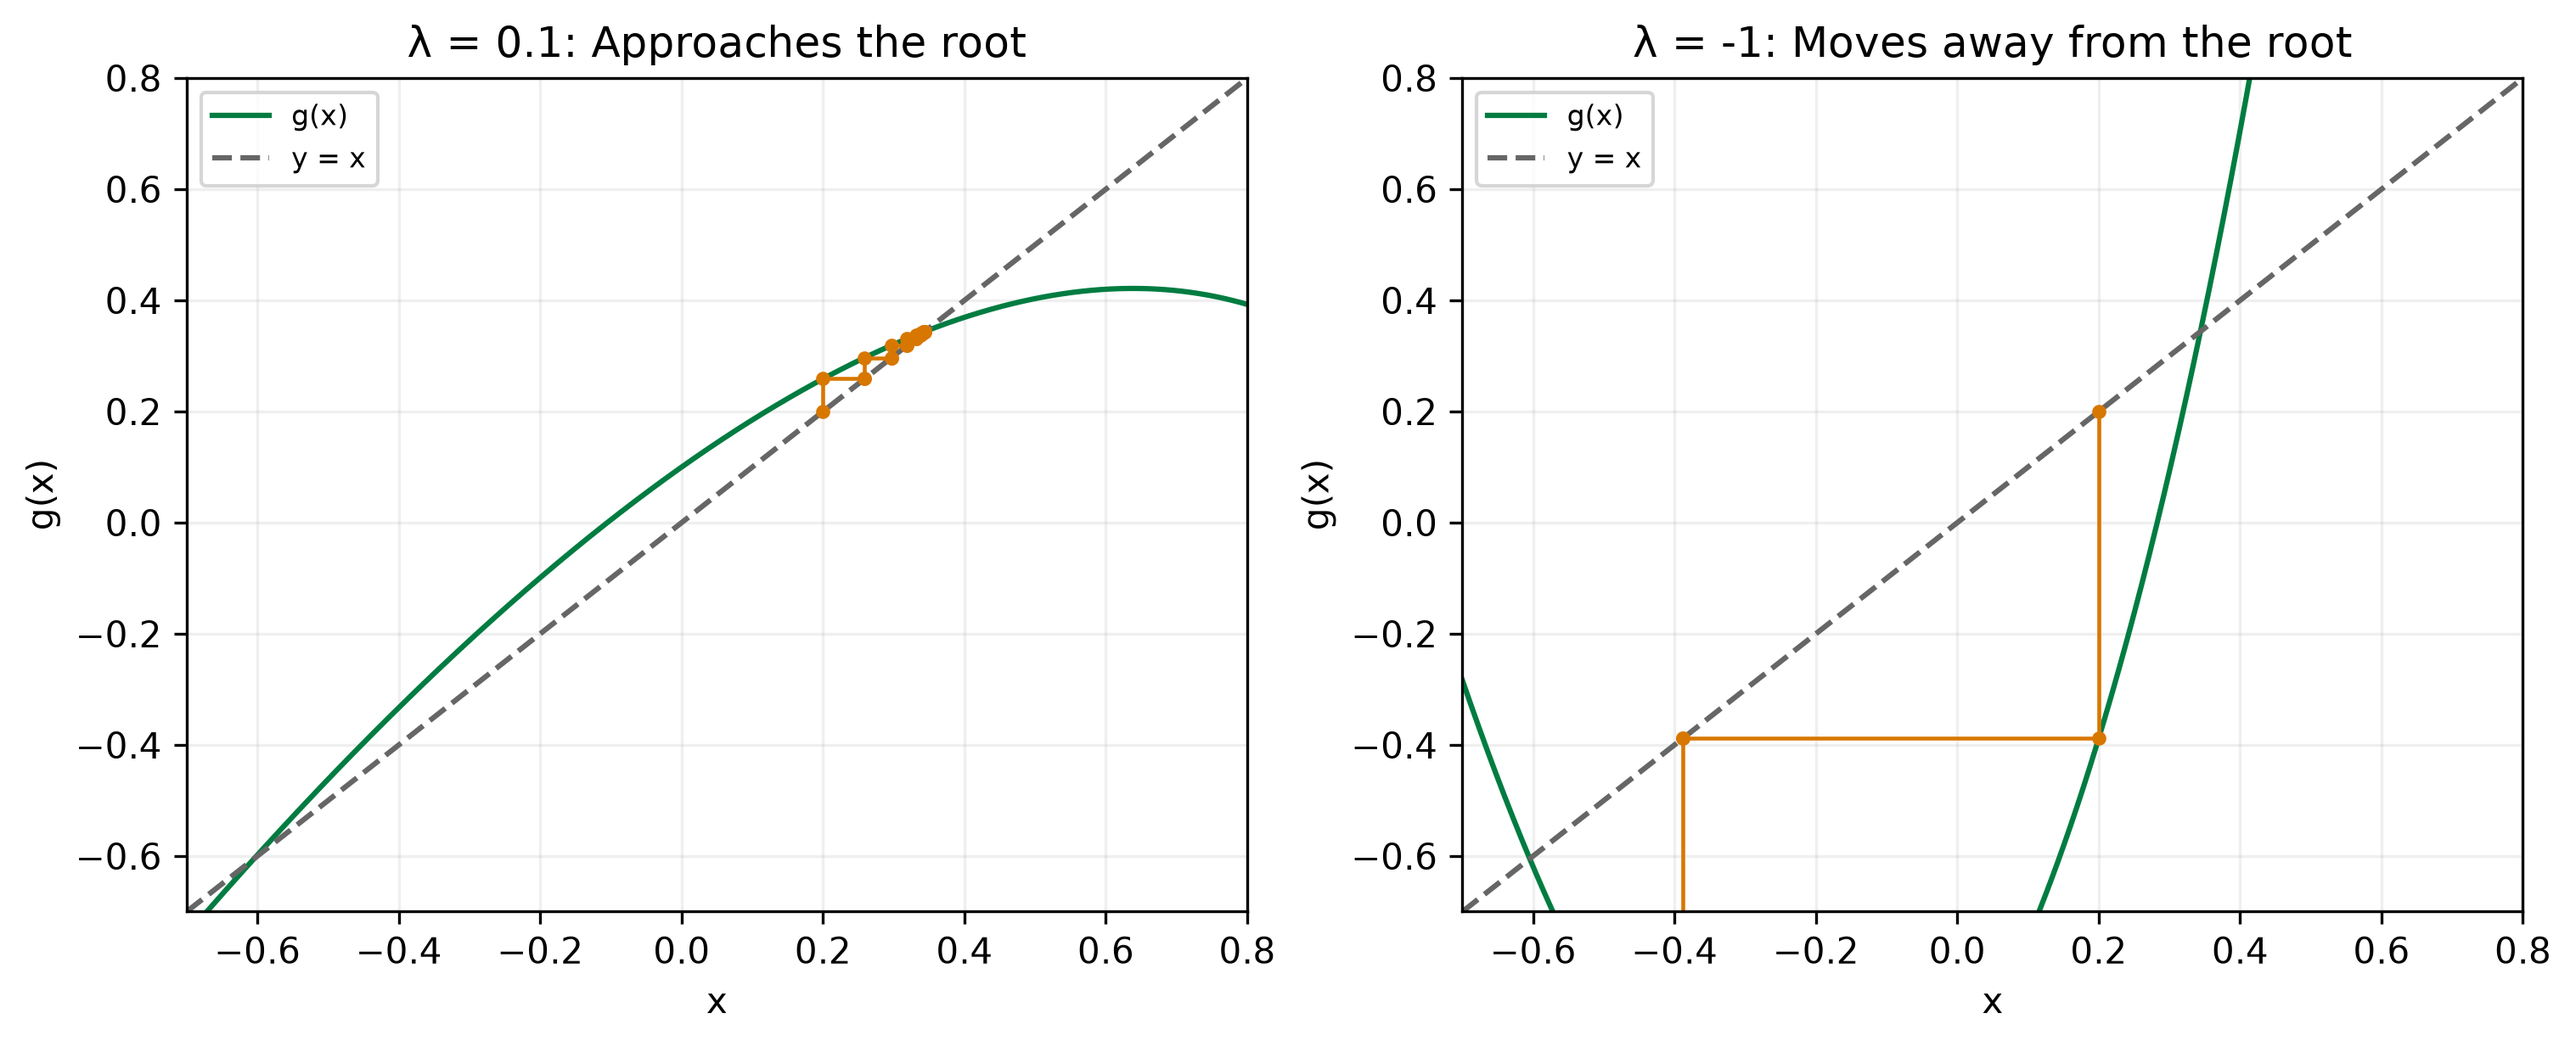
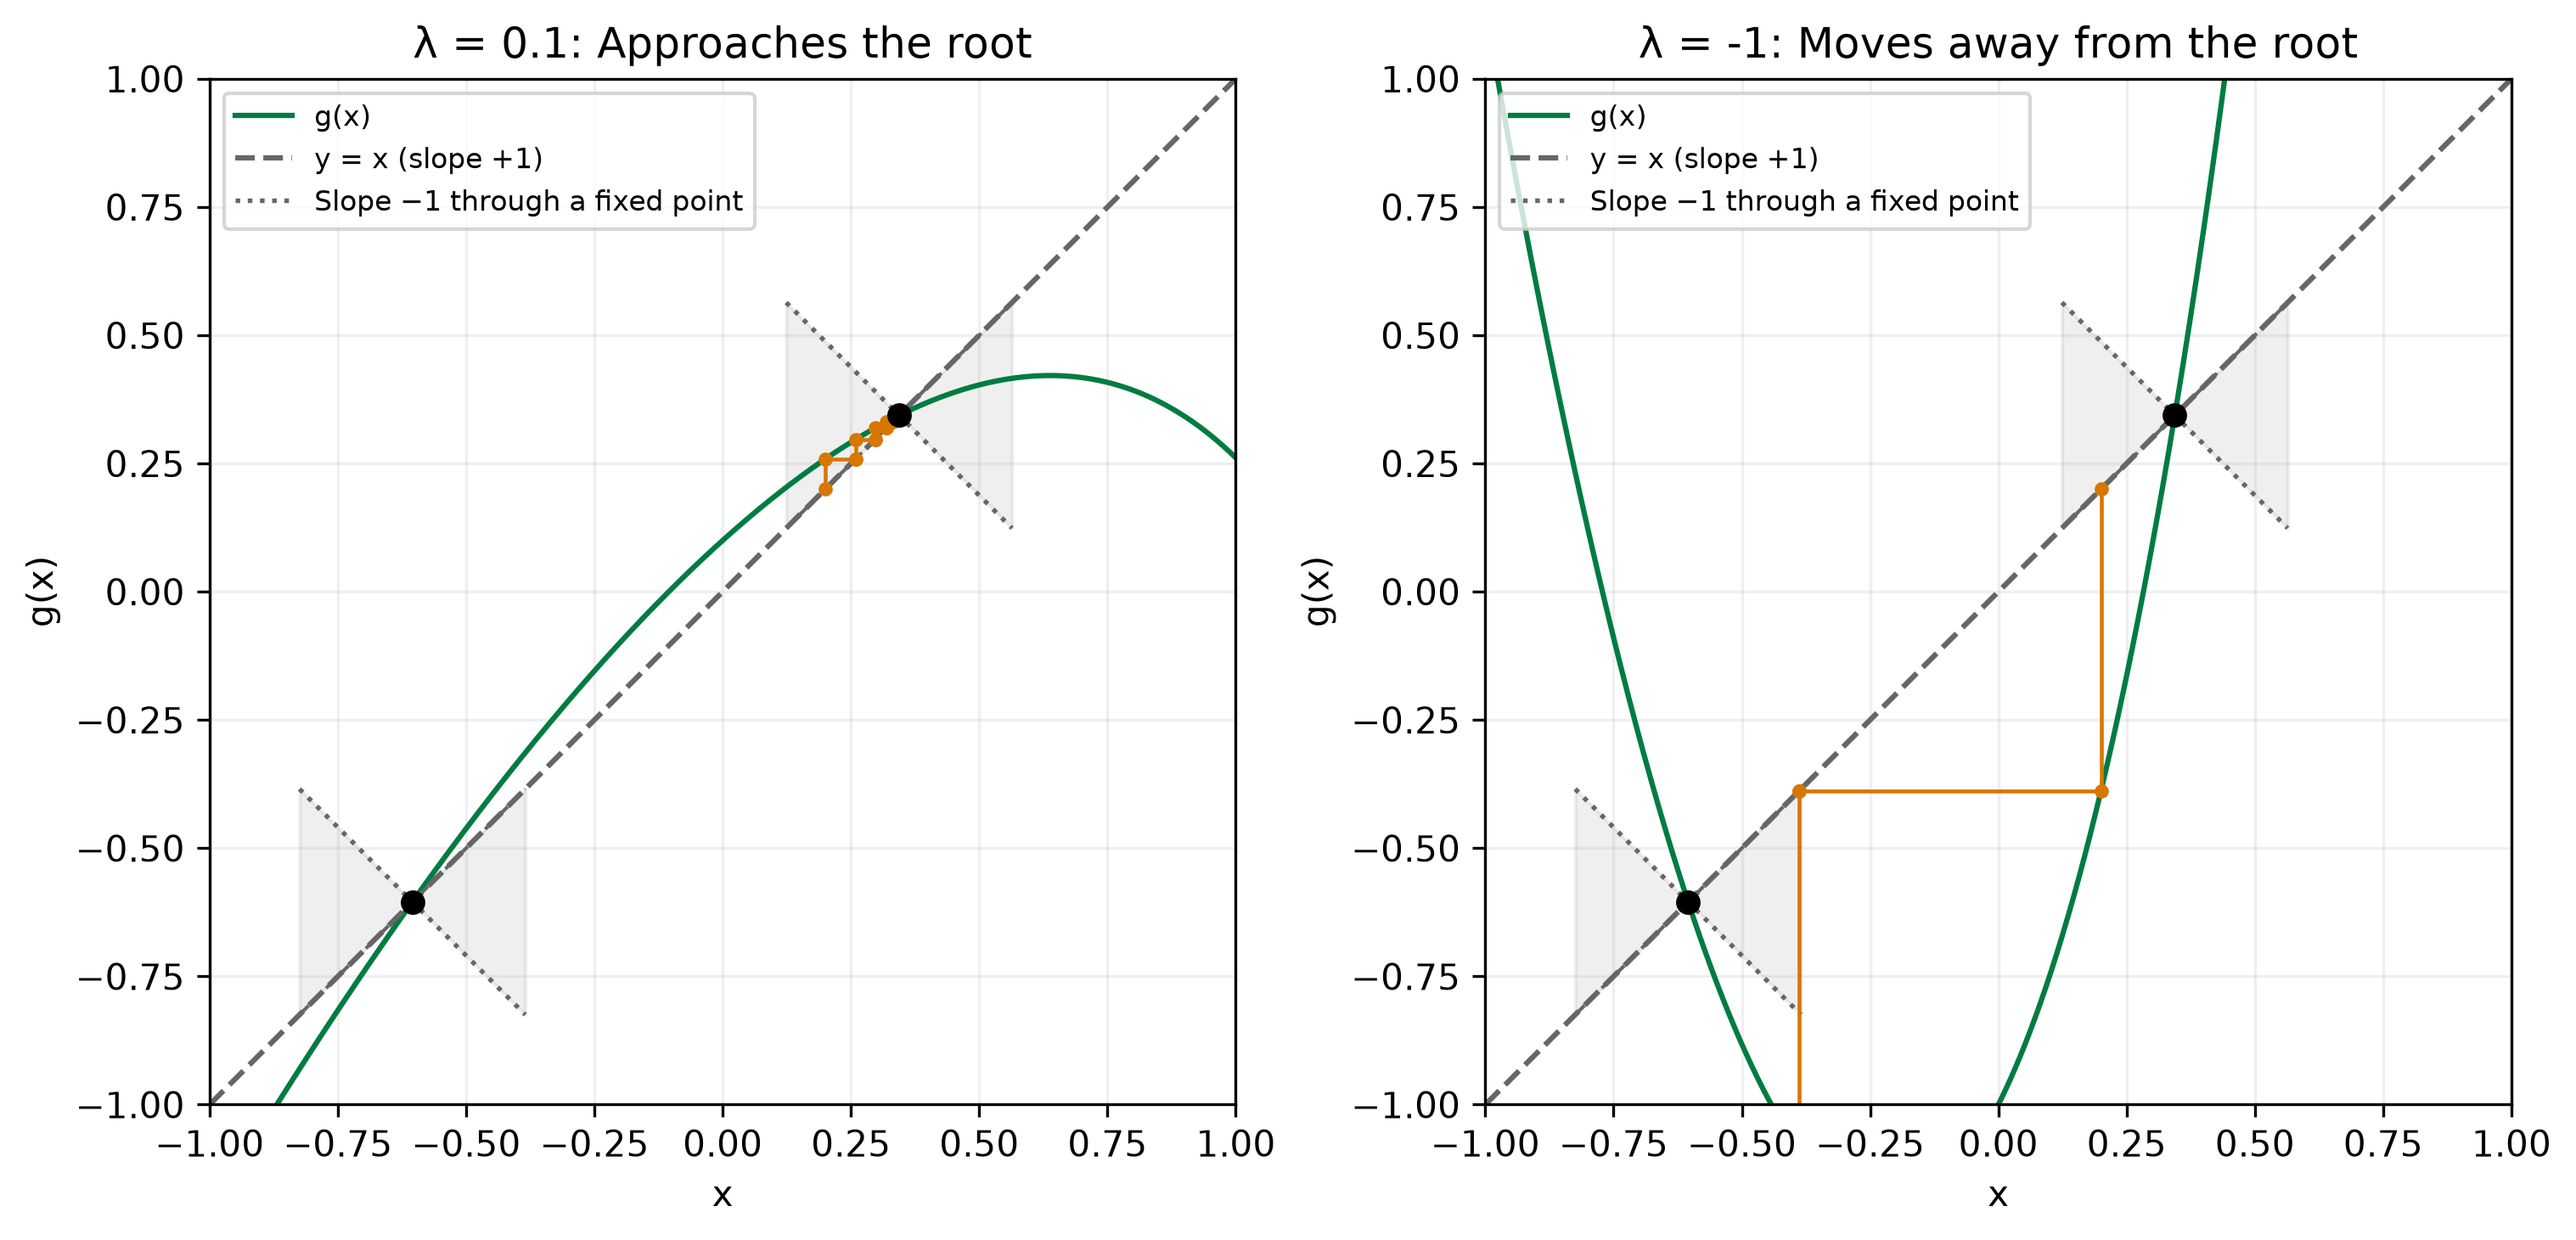
Replace fixed-point slope bands with local slope cones

diff --git a/activities/l06_fixed_point.edit.py b/activities/l06_fixed_point.edit.py
@@ -125,37 +125,50 @@ def fixed_plot(
     plt,
     trace_fixed,
 ):
-    def draw_fixed_trace(choice, start, relaxation, steps):
+    def draw_fixed_trace(choice, start, relaxation, steps, ax=None):
         seq, status = trace_fixed(choice, start, relaxation)
-        fig, ax = plt.subplots(figsize=(7, 4.1), layout="constrained")
+        if ax is None:
+            fig, ax = plt.subplots(figsize=(7, 5.3), layout="constrained")
+        else:
+            fig = ax.figure
         xx = np.linspace(-1.0, 1.0, 2001)
         with np.errstate(over="ignore", divide="ignore", invalid="ignore"):
             yy = fixed_map(xx, choice, relaxation)
-            derivative = (fixed_map(xx+1e-5, choice, relaxation) - fixed_map(xx-1e-5, choice, relaxation)) / 2e-5
         ax.plot(xx, yy, color="#007c41", label="g(x)")
-        ax.plot(xx, xx, color="0.4", ls="--", label="y = x")
-        # Sampled slope bands illustrate local attraction; they are not a proof
-        # that g maps the entire band back into itself.
-        attractive = np.isfinite(yy) & np.isfinite(derivative) & (np.abs(derivative) < 1)
-        shade_label = "Sampled |g′| < 1 near a true fixed point"
-        for root in fixed_roots:
+        ax.plot(xx, xx, color="0.4", ls="--", label="y = x (slope +1)")
+        # Cones compare distance to a fixed point, not sampled derivatives.
+        # Their displayed width is a visual guide, not a certified interval.
+        candidates = list(fixed_roots)
+        if choice == "c = −x/2":
+            candidates.append(0.0)
+        cone_label = "Slope −1 through a fixed point"
+        for fixed_point in candidates:
             with np.errstate(over="ignore", divide="ignore", invalid="ignore"):
-                maps_root = abs(fixed_map(root, choice, relaxation) - root) < 1e-6
-            idx = int(np.argmin(abs(xx-root)))
-            if maps_root and attractive[idx]:
-                left = right = idx
-                while left > 0 and attractive[left-1]:
-                    left -= 1
-                while right < len(xx)-1 and attractive[right+1]:
-                    right += 1
-                ax.axvspan(xx[left], xx[right], alpha=0.10, color="#007c41", label=shade_label)
-                shade_label = None
-            if maps_root:
-                ax.scatter([root], [root], color="black", s=35, zorder=5)
+                maps_point = abs(fixed_map(fixed_point, choice, relaxation) - fixed_point) < 1e-10
+            if not maps_point:
+                continue
+            cone_x = fixed_point + np.linspace(-0.22, 0.22, 101)
+            distance = np.abs(cone_x - fixed_point)
+            ax.fill_between(
+                cone_x, fixed_point - distance, fixed_point + distance,
+                color="0.5", alpha=0.12, zorder=0,
+            )
+            ax.plot(cone_x, cone_x, color="0.4", ls="--", lw=1)
+            ax.plot(
+                cone_x, 2*fixed_point - cone_x, color="0.4", ls=":",
+                lw=1.3, label=cone_label,
+            )
+            cone_label = None
+            if choice == "c = −x/2" and fixed_point == 0:
+                ax.scatter([0], [0], color="#a32638", marker="x", s=55,
+                           zorder=5, label="Extra fixed point: F(0) = −1")
+            else:
+                ax.scatter([fixed_point], [fixed_point], color="black", s=35, zorder=5)
         shown = seq[:steps+1]
         for x, y in zip(shown[:-1], shown[1:]):
             ax.plot([x, x, y], [x, y, y], "o-", color="#d87700", lw=1.1, markersize=3)
         ax.set(xlim=(-1,1), ylim=(-1,1), xlabel="x", ylabel="g(x)", title="Vertical to g(x), horizontal to y = x")
+        ax.set_aspect("equal", adjustable="box")
         ax.legend(fontsize=8, loc="upper left")
         ax.grid(alpha=0.2)
         return fig
@@ -218,8 +231,15 @@ def fixed_plot(
         fixed_equations,
         fixed_outcome,
         fixed_figure,
-        mo.md(f"The cobweb shows the first **{min(fixed_steps.value, len(fixed_sequence)-1)}** updates. "
-              "Green bands show a **sampled local slope condition** near a true fixed point. A convergence guarantee also needs an interval that maps into itself. The plot stays on [−1, 1]; divergent iterates may leave it."),
+        mo.md(
+            f"The cobweb shows the first **{min(fixed_steps.value, len(fixed_sequence)-1)}** updates.\n\n"
+            r"**Slope cones:** the lines $y=x_s\pm(x-x_s)$ meet at each marked fixed point $(x_s,x_s)$. "
+            r"If $(x,g(x))$ lies strictly inside its grey cone, then $|g(x)-x_s|<|x-x_s|$: "
+            "that update shrinks the error relative to this fixed point. "
+            r"Compare the curve near the tip: $|g'(x_s)|<1$ gives local attraction. "
+            "The cone width is chosen for visibility. To apply the interval contraction theorem, also check a uniform Lipschitz bound below one and that updates stay in the interval. "
+            "The plot stays on [−1, 1]; divergent iterates may leave it."
+        ),
         mo.accordion({"Experiments": mo.md("Compare **λ = 0.10** and **λ = −1.00** from x₀ = 0.20. Then select **c = −x/2** with x₀ = 0: does a motionless cobweb solve F(x)=0? Compare the two square-root branches. To try your own function, edit `student_map` and select **Your map**; verify its algebra and check F at the result.")}),
     ])
     return

diff --git a/scripts/l06_l07_figures.py b/scripts/l06_l07_figures.py
@@ -226,26 +226,22 @@ def plot_two_step_comparison():
     return fig
 
 
+def save_fixed_point_figure():
+    fixed = notebook_definitions("l06_fixed_point.edit.py")
+    fig, axes = plt.subplots(1, 2, figsize=(10, 5.1), layout="constrained")
+    for ax, relaxation, label in zip(axes, [0.1, -1.0], ["Approaches the root", "Moves away from the root"]):
+        fixed["draw_fixed_trace"]("Constant c = λ", 0.2, relaxation, 10, ax=ax)
+        ax.set_title(f"λ = {relaxation:g}: {label}")
+    save(fig, "L06-fixed-point.png")
+
+
 def main():
     roots = notebook_definitions("l06_open_methods.edit.py")
     save_regula_falsi_secant_animation()
     points, lines, _ = roots["trace_open"]("Secant", 0.20, 0.21)
     save(roots["draw_open_trace"](points, lines, 5, "Secant"), "L06-open-methods.png")
 
-    fixed = notebook_definitions("l06_fixed_point.edit.py")
-    fig, axes = plt.subplots(1, 2, figsize=(10, 4), layout="constrained")
-    xx = np.linspace(-0.7, 0.8, 1000)
-    for ax, relaxation, label in zip(axes, [0.1, -1.0], ["Approaches the root", "Moves away from the root"]):
-        yy = fixed["fixed_map"](xx, "Constant c = λ", relaxation)
-        seq, _ = fixed["trace_fixed"]("Constant c = λ", 0.2, relaxation, maxiter=12)
-        ax.plot(xx, yy, color="#007c41", label="g(x)")
-        ax.plot(xx, xx, "--", color="0.4", label="y = x")
-        for x, y in zip(seq[:10], seq[1:11]):
-            ax.plot([x, x, y], [x, y, y], "o-", lw=1.1, markersize=3, color="#d87700")
-        ax.set(xlim=(-0.7,0.8), ylim=(-0.7,0.8), xlabel="x", ylabel="g(x)", title=f"λ = {relaxation:g}: {label}")
-        ax.legend(fontsize=8)
-        ax.grid(alpha=0.2)
-    save(fig, "L06-fixed-point.png")
+    save_fixed_point_figure()
 
     energy = notebook_definitions("l07_co2_free_energy.edit.py")
     temperature = 280.0
